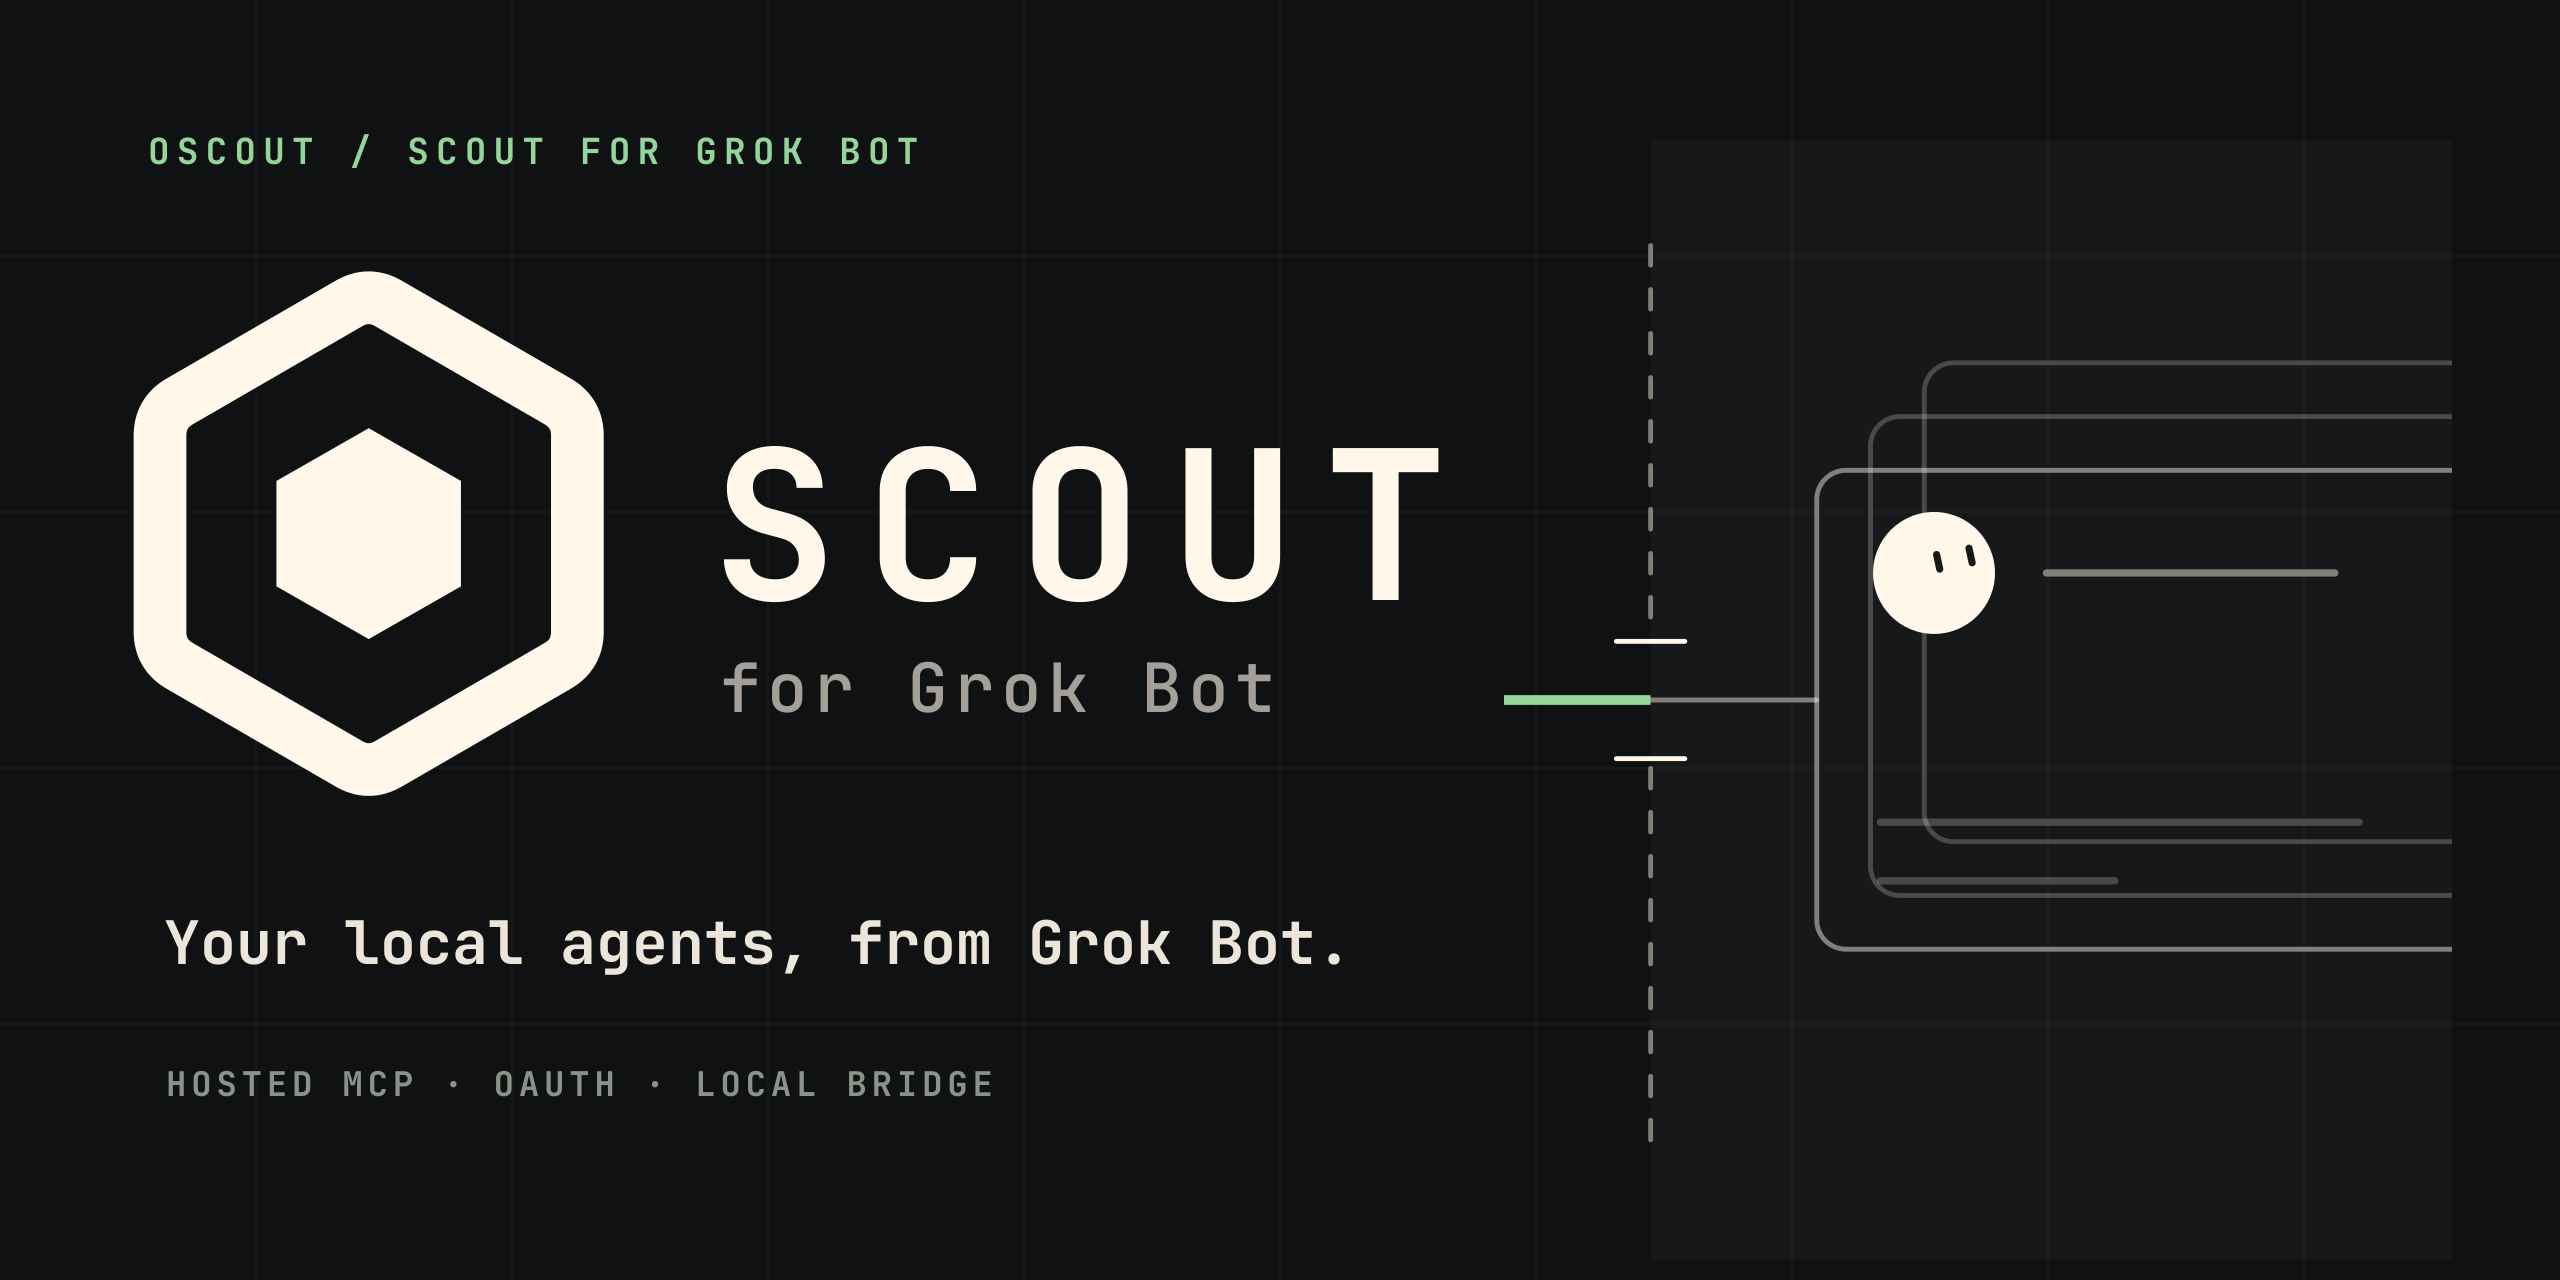
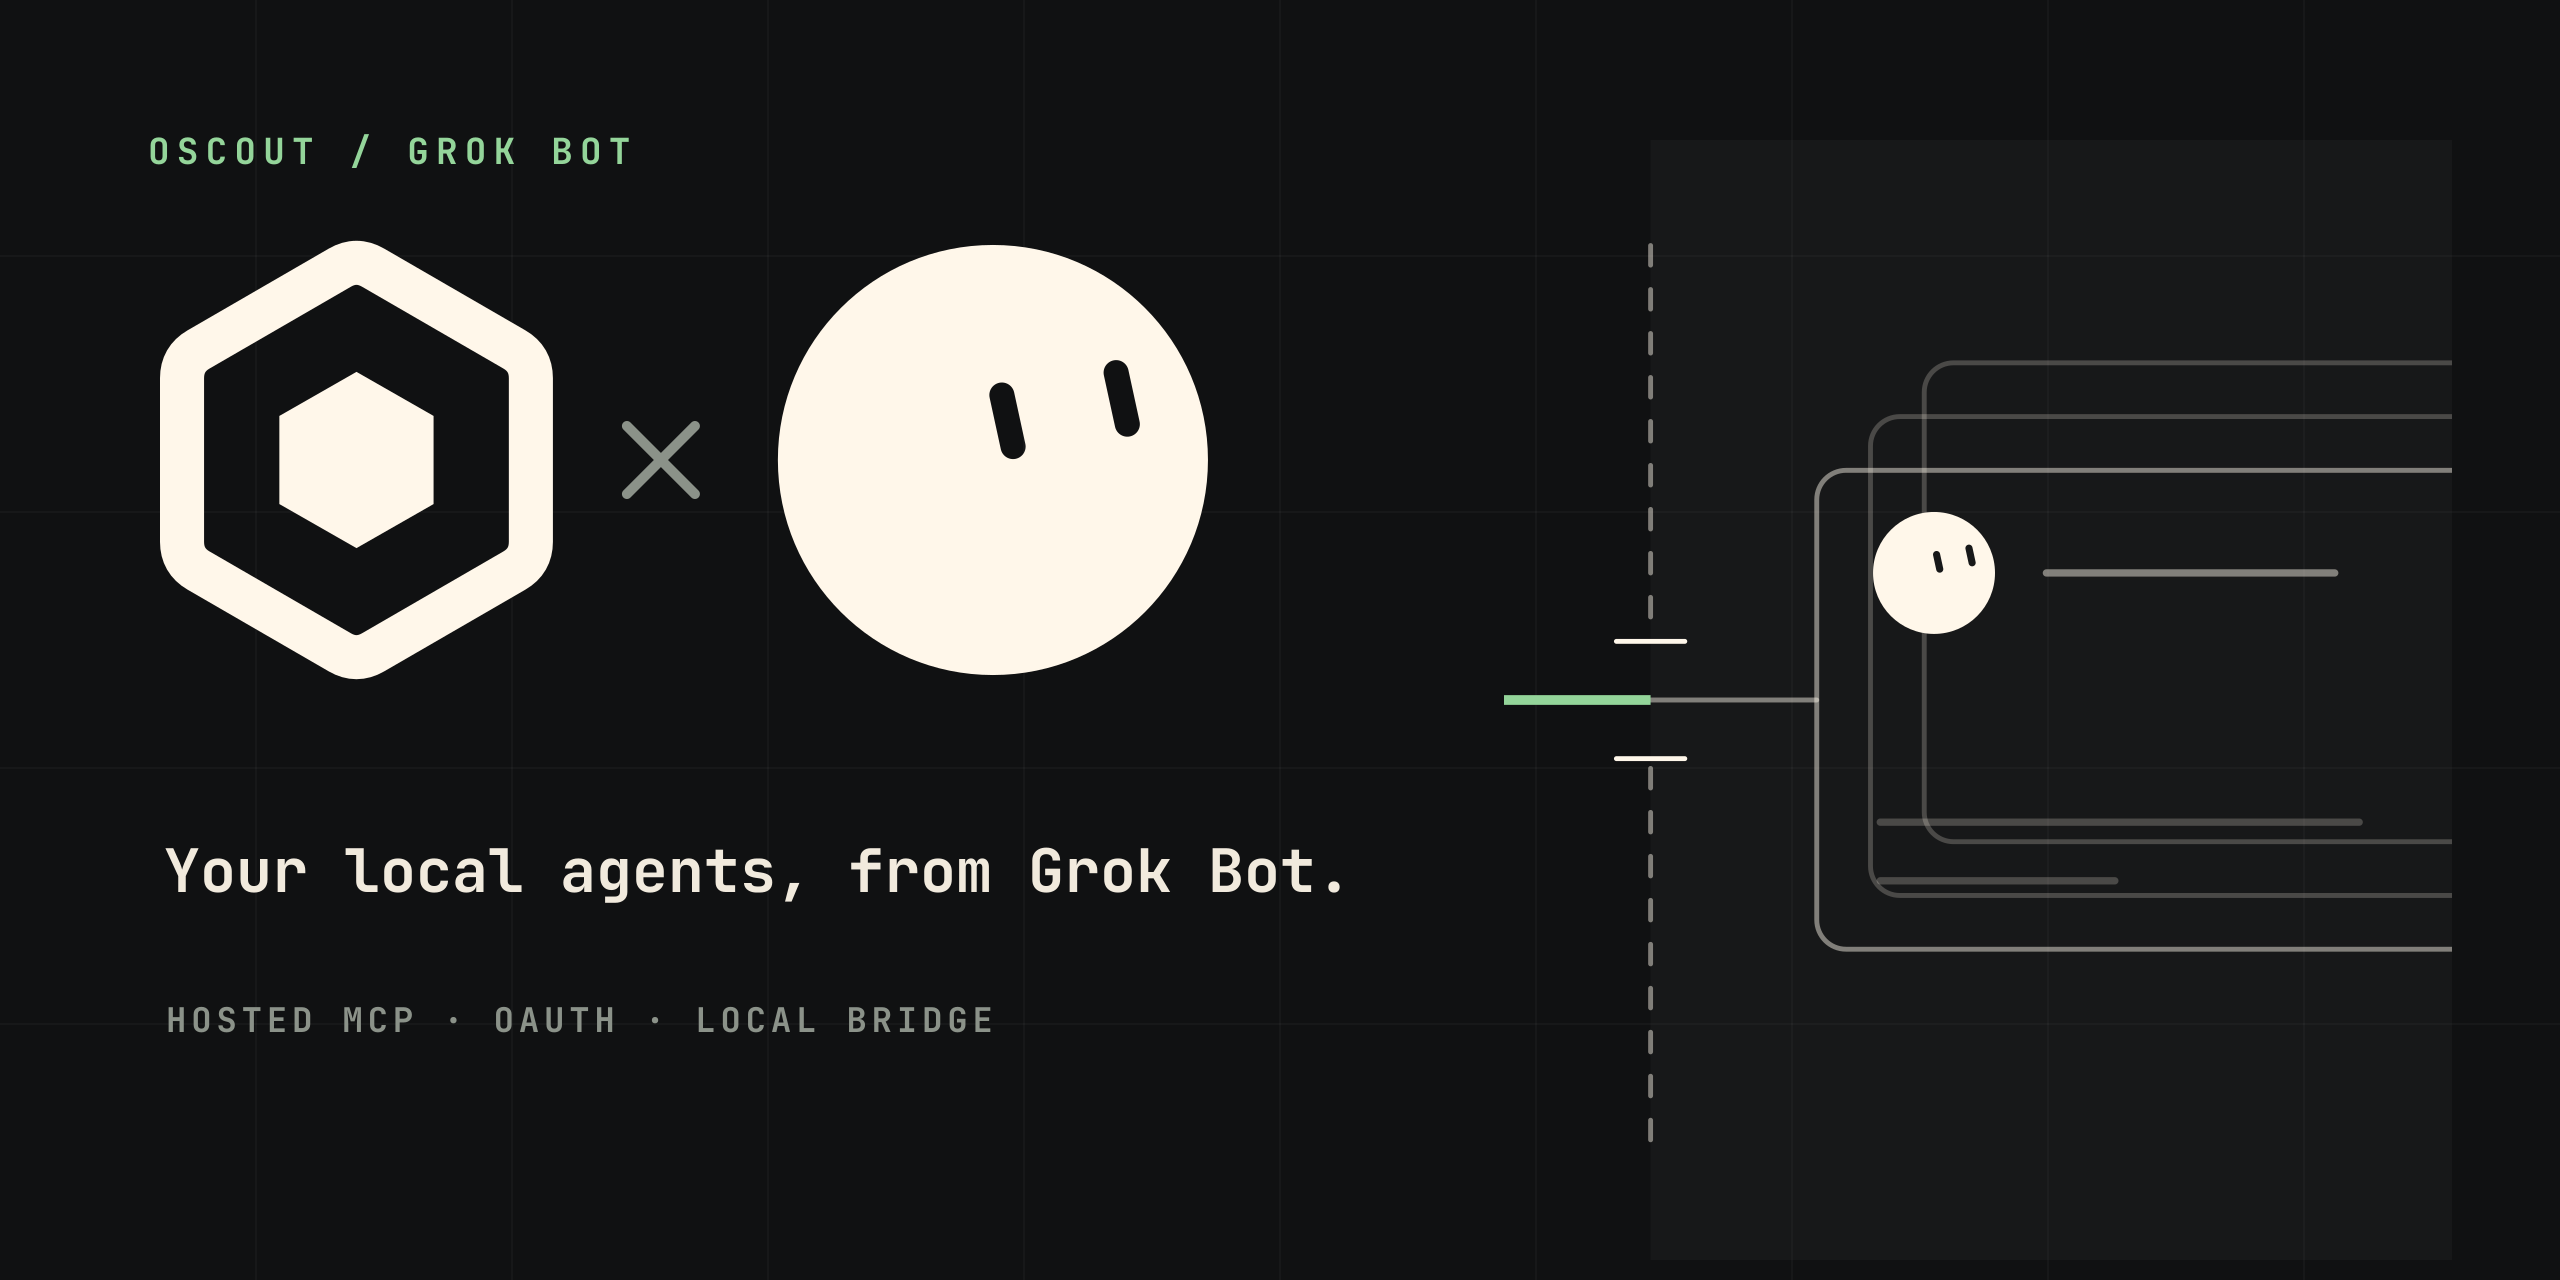
Social cards: Scout × host lockup instead of the wordmark
The cards lead with the partnership: the Scout mark and the host's mark
at one size, joined by ×, with no SCOUT wordmark or "for <host>" line,
so the name isn't repeated. The eyebrow reads OSCOUT / <HOST>. Herdr's
corner-cut ram sits in a rounded tile whose corner takes the cut, and
the illustration panel no longer seats a second host mark.

diff --git a/illustrations/README.md b/illustrations/README.md
@@ -16,7 +16,7 @@ bun run check
 
 ## Social cards
 
-`social.mjs` renders a GitHub social preview for each integration into `assets/social/{host}-scout-social.png` (2560 × 1280, matching `oscout/scout`'s card). The left column has the eyebrow, the Scout mark and wordmark, a tagline, and three points. The right panel is a crop of the host's own dark illustration around its entry, drawn by `render.mjs`. Text, crop origin, and whether the host's mark is seated over the crop live under `social` in `manifest.json`.
+`social.mjs` renders a GitHub social preview for each integration into `assets/social/{host}-scout-social.png` (2560 × 1280, matching `oscout/scout`'s card). The left column has the eyebrow, the co-brand lockup (Scout mark × host mark at one size, no wordmark), a tagline, and three points. The right panel is a crop of the host's own dark illustration around its entry, drawn by `render.mjs`. Text, crop origin, and whether the host's mark is seated over the crop live under `social` in `manifest.json`.
 
 ```bash
 bun run social:render
